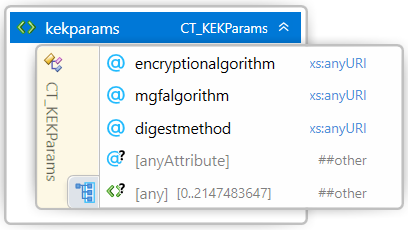
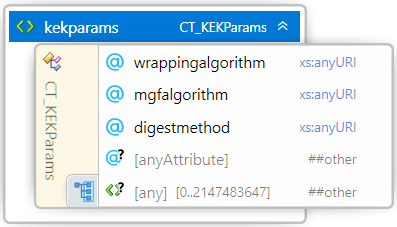
Update after discussion VA, Autodesk and HP- V0.90

diff --git a/3MF Secure Content.md b/3MF Secure Content.md
@@ -4,7 +4,7 @@
 ## Specification & Reference Guide
 
 
-| **Version** | 0.89 |
+| **Version** | 0.90 |
 | --- | --- |
 | **Status** | Draft |
 
@@ -22,7 +22,7 @@
     + [1.3 Package Organization and OPC Compliance](#13-package-organization-and-opc-compliance)
   * [Chapter 2. Key Store](#chapter-2-key-store)
       - [2.1 Consumer](#21-consumer)
-      - [2.2 Resource Data](#22-resource-data)
+      - [2.2 Resource Data Group](#22-resource-data-group)
   * [Chapter 3. OPC Relation and Content Types](#chapter-3-opc-relation-and-content-types)
     + [3.1 Content Types](#31-content-types)
     + [3.2 Relation Files](#32-relation-files)
@@ -72,6 +72,8 @@ This extension describes the encryption mechanism to protect the 3MF content fil
 
 In order to allow for the use of 3MF in highly secure printing environments, several additions are needed to efficiently support confidentiality of specific content in the 3MF package, providing a 3MF producer with the capability to control which consumers have access to the confidential content.
 
+While the 3MF Secure Content Extension provides a mechanism for controlling which consumers may have decrypt rights to specific confidential content, it also might be used in conjuction with external Digital Rights Management solution which might provide the decrypt rights to the confidential content.
+
 A consumer not supporting the 3MF Secure Content Extension MAY be able to consume the 3MF with this extension, but it may miss any encrypted OPC part.
 
 In order to avoid data loss while parsing, a 3MF package which uses referenced objects SHOULD enlist the Secure Content Extension as “required extension”, as defined in the core specification. However, if the Secure Content Extension is not enlisted as required, any consumer which does not support the Secure Content Extension will be able to access the unencrypted OPC parts.
@@ -84,15 +86,19 @@ A producer MAY add a MustPreserve relashionship to the Key Store OPC part or any
 
 The encryption model used is a 'two-level' Key Encryption Key - Content Encryption Key (KEK-CEK) wrapping scheme:
 
-- Each confidential resource is encrypted using an efficient symmetric Content Encryption Method, with a randomly generated symmetric Content Encryption Key (CEK). There may be several resources in a 3MF package that requires confidentiality, so different CEKs MUST be provided for each one of them. Consumers MUST support, at a minimum the AES256 GCM (Gaulois Counter Mode).
+- Each confidential resource is encrypted using an efficient symmetric Content Encryption Method, with a randomly generated symmetric Content Encryption Key (CEK). There may be several resources in a 3MF package that requires confidentiality, so different CEKs MUST be provided for each one of them. Consumers MUST support, at a minimum, the AES256 GCM (Gaulois Counter Mode).
 
-- The CEK for each one of the confidential resources may be wrapped with one or several Key Encryption Keys (KEK), using Key Encryption Methods that ensure that only the intended consumers can decrypt and use the CEK. This means that the consumers must have an RSA2048 asymmetric private decryption key, and the corresponding public key must be made available to the producer to encrypt the CEK. Cunsumer MUST support, at a minimum, the asymmetric RSA2048 OAEP Key Encryption Method.
+- The CEK for each one of the confidential resources may be wrapped with one or several Key Encryption Keys (KEK), using wrapping methods that ensure that only the intended consumers can decrypt and use the CEK. This means that the consumers must have available the decryption key.
+
+- When the wrapping method is an RSA2048 asymmetric private decryption key, and the corresponding public key must be made available to the producer to encrypt the CEK. Consumer MUST support, at a minimum, the asymmetric RSA2048 OAEP Key Encryption Method, based on public and private keys scheme.
 
 -	There could be several consumers for the same 3MF file and at the same time some consumers might have more than a pair of public and private keys, e.g. for different job types. To provide simultaneous access to all authorized parties, the CEK for a confidential resource may be encrypted several times, one for each different potential consumer.
 
+- Alternative wrapping schemes might also be supported by a consumer, for example using a symmetric KEK which might be delived to the consumer(s) by any extenal mechanism to the 3MF file.
+
 The KEK-CEK wrapping scheme provides efficiency because the (probably large) data in a confidential resource is encrypted/decrypted only once using an efficient symmetric encryption algorithm and KEK approach provides flexibility in controlling who can access the confidential data, by allowing encrypting the CEK with different KEKs.
 
-The mechanism for storing the CEK in the 3MF is optional. It provides a mean to communicate the CEK for eack part. However, the CEKs might be transferred to the consumer by any other mean, externally to the 3MF file.
+The mechanism for storing the CEK in the 3MF is optional. It provides a mean to communicate the CEK for eack part. However, the CEKs might be transferred to the consumer by any other means, externally to the 3MF file.
 
 ## 1.2 Parts Relationships
 
@@ -113,13 +119,13 @@ Only non-root OPC parts MAY be encrypted. Root OPC parts and parts relationships
 
 A new 3MF resource, the Key Store, is defined to support content encryption. The \<keystore> element stores the encryption information for the different confidential resources in the package.
 
-For each confidential resource, the Key Store contains:
+For each confidential resource, the Key Store may contain:
 
-- Information on how the content is encrypted: the Content Encryption Method, and other information relevant to enable content decryption.
+- Information on how the content is encrypted: the wrapping method, and other information relevant to enable content decryption.
 
-- One CEK encrypted using a KEKs wrapping, with the corresponding information about the Key Encryption Method used, for each one of the consumers authorized to access confidential content.
+- One CEK wrapped using a KEK, with the corresponding information about the wrapping method used, for each one of the consumers authorized to decrypt confidential content.
 
-A consumer supporting the 3MF Secure Content Extension MUST support, at a minimum, the RSA2048 OAEP Key Encryption Algorithm.
+A consumer supporting the 3MF Secure Content Extension MUST support, at a minimum, the RSA2048 OAEP wrapping method. Other wrapping methods, for example using symmetric keys, might also be supported by a consumer.
 
 ##### Figure 1–1. A typical 3MF Secure Content Document with multiple encrypted model streams
 ![OPC organization](images/1.1.opc_organization.png)
@@ -153,19 +159,21 @@ Element **\<consumer>**
 
 | Name   | Type   | Use   | Default   | Annotation |
 | --- | --- | --- | --- | --- |
-| consumerid | **string** | required |   | ID of the target consumer. |
+| consumerid | **string** | |   | ID of the target consumer. |
 | keyid | **string** | |   | Optional key identifier. |
 | @anyAttribute | | | | |
 
 The \<consumer> element under a \<keystore> element contains the target consumer specific information. When a \<keystore> element constains more than one consumer it means that there is more than a single recipient that could decrypt the content.
 
-**consumerid** - The consumer ID attribute to be referenced from the \<decryptright> elements from a \<resourcedata> element to specify to which \<consumer> is intended the encrypted content.
+**consumerid** - On asymetric wrapping schemes, the consumer ID attribute to be referenced from the \<decryptright> elements from a \<resourcedata> element to specify to which \<consumer> is intended the encrypted content.
 
 A consumer MUST be identified by "consumerid", an attribute in \<consumer> element, where consumerid is a human readable unique identifier (Alphanumeric). Each consumer is expected to have a unique id, which is known to both producer and consumer.
 
+On symmetric wrapping schemes, the target consumer might not be defined in the 3MF document, but in an extenal mechanism to the 3MF Secure Content Extension.
+
 **keyid** - The optional alphanumeric key identifier attribute for identifying the consumer's Key Encryption Key (KEK), which it is used for wrapping the content encryption keys targeted to this consumer.
 
-It is possible that a consumer has different encryption key pairs. In this case, additional information about the specific key pair used as Key Encryption Key is needed. This information MAY be provided by specifying the key identification.
+It is possible that a consumer has different encryption keys. In this case, additional information about the specific key pair used as Key Encryption Key is needed. This information MAY be provided by specifying the key identification.
 
 See the following example:
 
@@ -178,7 +186,7 @@ See the following example:
 
 Element **\<keyvalue>**
 
-Additional information about the public key used as Key Encryption Key MAY be provided using a \<keyvalue> element containing the public key in PEM format as in [RFC7468](https://tools.ietf.org/html/rfc7468#section-13).
+In asymmetric wrapping schemes, additional information about the public key used as Key Encryption Key MAY be provided using a \<keyvalue> element containing the public key in PEM format as in [RFC7468](https://tools.ietf.org/html/rfc7468#section-13).
 
 See the following example:
 
@@ -193,64 +201,79 @@ Nkn3Eos8EiZByi9DVsyfy9eejh+8AXgp
 </consumer>
 ```
 
-## 2.2 Resource Data
+## 2.2 Resource Data Group
+
+Element **\<resourcedatagroup>**
+
+![Resource Data XML structure](images/2.2.resourcedatagroup.png)
+
+| Name   | Type   | Use   | Default   | Annotation |
+| --- | --- | --- | --- | --- |
+| keyuuid | **ST\_UUID** | required |  | UUID that identifies the CEK. |
+| @anyAttribute | | | | |
+
+The \<resourcedatagroup> element under a \<keystore> element contains the resource specific encryption information for a set of encrypted resources which are encrypted using the same Content Encryption Key (CEK).
+
+**keyuuid** - UUID that identifies the Content Encryption Key (CEK). This UUID MAY be used to identify the key in external systems, for example in a Digital Rights Management (DRM) system.
+
+Example of a \<resourcedata> element for a set of encrypted resources that can be accessed by two different consumers:
+
+```xml
+<resourcedatagroup keyuuid="cb9b46cd-c5be-4f58-b2e3-69edb44ff5fe">
+  <decryptright consumerindex="0" wrappingalgorithm="http://www.w3.org/2001/04/xmlenc#rsa-oaep-mgf1p">
+    <cipherdata>
+      <xenc:CipherValue><!-- base64(RSA2048_OAEP encrypted Content Encryption Key) --></xenc:CipherValue>
+    </cipherdata>
+  </decryptright>
+  <decryptright consumerindex="1" wrappingalgorithm="http://www.w3.org/2001/04/xmlenc#rsa-oaep-mgf1p">
+    <cipherdata>
+      <xenc:CipherValue><!-- base64(RSA2048_OAEP encrypted Content Encryption Key) --></xenc:CipherValue>
+    </cipherdata>
+  </decryptright>
+  <resourcedata path="path to encrypted file1 in package">
+    <cekparams encryptionalgorithm="http://www.w3.org/2009/xmlenc11#aes256-gcm" compression="deflate">
+      <iv><!-- base64(Initialization Vector) --></iv>
+      <tag><!-- base64(Authentication Tag) --></tag>
+      <aad><!-- base64(Additional Authenticated Data) --></aad>
+    </cekparams>
+  </resourcedata>
+  <resourcedata path="path to encrypted file2 in package">
+    <cekparams encryptionalgorithm="http://www.w3.org/2009/xmlenc11#aes256-gcm" compression="deflate">
+      <iv><!-- base64(Initialization Vector) --></iv>
+      <tag><!-- base64(Authentication Tag) --></tag>
+      <aad><!-- base64(Additional Authenticated Data) --></aad>
+    </cekparams>
+  </resourcedata>
+</resourcedatagroup>
+```
+
+## 2.2.1 Resource Data
 
 Element **\<resourcedata>**
 
-![Resource Data XML structure](images/2.2.resourcedata.png)
+![Resource Data XML structure](images/2.2.1.resourcedata.png)
 
 | Name   | Type   | Use   | Default   | Annotation |
 | --- | --- | --- | --- | --- |
 | path | **ST\_Path** | required |  | Path to the encrypted resource file. |
-| compression | **ST\_Compression** |  | none | Compression algorithm applied to content before encryption. |
-| keyuuid | **ST\_UUID** | required |  | UUID that identifies the CEK. |
 | @anyAttribute | | | | |
 
-The \<resourcedata> element under a \<keystore> element contains the resource specific encryption information for an encrypted resource and the file path to the encrypted content file.
+The \<resourcedata> element under a \<resourcedatagroup> element contains the resource specific encryption information for an encrypted resource and the file path to the encrypted content file.
 
 **path** - Path to the encrypted file in the OPC package. The path MUST be treated as a hash map to identify encrypted files referenced from any XML model file by their path attribute defined in 3MF extensions. A given file path must be unique; it MUST NOT show up in more than one \<resourcedata> element. All encrypted files referenced by a resource data element MUST have a EncryptedFile relationship. See [3.3 Encrypted File Relationship](#33-encrypted-file-relationship).
 
-When a model resource path is found in a \<resourcedata> element, the content of that file MUST be encrypted.
+When an OPC part path is found in a \<resourcedata> element, the content of that file MUST be encrypted.
 
-**compression** - Compression algorithm applied before encrypting the content to obtain a significant compression ratio.
-
-A producer MAY specify a compression “deflate” so the content is first compressed and then encrypted. When compression is "deflate", a consumer MUST first decrypt and then decompress the content.
-
-**keyuuid** - UUID that identifies the Content Encryption Key (CEK). This UUID MAY be used to identify the key in external systems.
-
-Example of a \<resourcedata> element for an encrypted resource that can be accessed by two different consumers:
-
-```xml
-<resourcedata path="/3D/model_obj1.model" compression="deflate" keyuuid="cb9b46cd-c5be-4f58-b2e3-69edb44ff5fe">
-  <cekparams encryptionalgorithm="http://www.w3.org/2009/xmlenc11#aes256-gcm">
-    <iv><!-- base64(Initialization Vector) --></iv>
-    <tag><!-- base64(Authentication Tag) --></tag>
-    <aad><!-- base64(Additional Authenticated Data) --></aad>
-  </cekparams>
-  <decryptright consumerindex="0">
-    <kekparams encryptionalgorithm="http://www.w3.org/2001/04/xmlenc#rsa-oaep-mgf1p"/>
-     <cipherdata>
-      <xenc:CipherValue><!-- base64(RSA2048_OAEP encrypted Content Encryption Key) --></xenc:CipherValue>
-    </xenc:CipherData>
-  </decryptright>
-  <decryptright consumerindex="1">
-    <kekparams encryptionalgorithm="http://www.w3.org/2001/04/xmlenc#rsa-oaep-mgf1p"/>
-    <cipherdata>
-      <xenc:CipherValue><!-- base64(RSA2048_OAEP encrypted Content Encryption Key) --></xenc:CipherValue>
-    </xenc:CipherData>
-  </decryptright>
-</resourcedata>
-```
-
-### 2.2.1 CEK Params
+### 2.2.1.1 CEK Params
 
 Element **\<cekparams>**
 
-![CEK Params XML structure](images/2.2.1.cekparams.png)
+![CEK Params XML structure](images/2.2.1.1.cekparams.png)
 
 | Name   | Type   | Use   | Default   | Annotation |
 | --- | --- | --- | --- | --- |
-| encryptionalgorithm | **anyURI** | |   | Encryption algorithm used to encrypt the resource data. |
+| encryptionalgorithm | **anyURI** | required | | Encryption algorithm used to encrypt the resource data. |
+| compression | **ST\_Compression** |  | none | Compression algorithm applied to content before encryption. |
 | iv | **base64Binary** |  |  | Initialization Vector. |
 | tag | **base64Binary** |  |  | Authentication Tag. |
 | aad | **base64Binary** |  |  | Additional Authenticated Data. |
@@ -264,6 +287,10 @@ A consumer supporting the 3MF Secure Content Extension MUST support, at a minimu
 
 > AES-GCM [SP800-38D](https://csrc.nist.gov/publications/detail/sp/800-38d/final) is an authenticated encryption mechanism. It is equivalent to doing these two operations in one step - AES encryption followed by HMAC signing.
 
+**compression** - Compression algorithm applied before encrypting the content to obtain a significant compression ratio, specially on text files.
+
+A producer MAY specify a compression “deflate” so the content is first compressed and then encrypted. When compression is "deflate", a consumer MUST first decrypt and then decompress the content.
+
 **\<iv>** - The Inicialization Vector \<iv> element is essentially a nonce, i.e, a value that is unique within the specified context, which determines an invocation of the authenticated encryption function on the input data to be protected. 
 
 **\<tag>** - The Authentication Tag \<tag> element is a cryptographic checksum on data that is designed to reveal both accidental errors and the intentional modification of the data. 
@@ -274,17 +301,7 @@ A consumer supporting the 3MF Secure Content Extension MUST support, at a minimu
 
 > During decryption the implementation should compare the authentication tag computed during decryption with the specified Authentication Tag and fail if they don't match. For details on the implementation of AES-GCM, see the publication [SP800-38D](https://csrc.nist.gov/publications/detail/sp/800-38d/final).
 
->**Note:** For enhanced security, every time a file is encrypted a new Initialization Vector (IV) SHOULD be generated. See [SP800-38D](https://csrc.nist.gov/publications/detail/sp/800-38d/final) section 8: Uniqueness Requirement on IVs and Keys .
-
-Example of a \<cekparams> element for an encrypted resource that can be accessed by two different consumers:
-
-```xml
-<cekparams encryptionalgorithm="http://www.w3.org/2009/xmlenc11#aes256-gcm">
-  <iv><!-- base64(Initialization Vector) --></iv>
-  <tag><!-- base64(Authentication Tag) --></tag>
-  <aad><!-- base64(Additional Authenticated Data) --></aad>
-</cekparams>
-```
+>**Note:** For enhanced security, every time a file is encrypted a new Initialization Vector (IV) SHOULD be generated. See [SP800-38D](https://csrc.nist.gov/publications/detail/sp/800-38d/final) Section 8: Uniqueness Requirement on IVs and Keys.
 
 ### 2.2.2 Decrypt Right
 
@@ -294,12 +311,12 @@ Element **\<decryptright>**
 
 | Name   | Type   | Use   | Default   | Annotation |
 | --- | --- | --- | --- | --- |
-| consumerindex | **ST\_ResourceIndex** | required | | Zero-based index to the \<customer> element containing the keys to decrypt the resource file |
+| consumerindex | **ST\_ResourceIndex** | required | | Zero-based index to the \<customer> element containing the keys to unwrap the Content Encryption Keys |
 | @anyAttribute | | | | |
 
-The \<decryptright> element under a \<resourcedata> element contains the consumer specific information to decrypt the content file for a specific consumer. Each \<decryptright> element contains the Content Encryption Key (CEK) wrapped with the consumer's public Key Encryption Key (KEK). 
+The \<decryptright> element under a \<resourcedata> element contains the consumer specific information to unwrap the Content Encryption Keys for a specific consumer. Each \<decryptright> element contains the Content Encryption Key (CEK) wrapped with the Key Encryption Key (KEK). 
 
-**consumerindex** - Index to the \<consumer> element in the Key Store to select the Customer to which the decryption key is targeted.
+**consumerindex** - Index to the \<consumer> element in the Key Store to select the Customer to which the wrapping key is targeted.
 
 ### 2.2.2.1 KEK Params
 
@@ -309,14 +326,14 @@ Element **\<kekparams>**
 
 | Name   | Type   | Use   | Default   | Annotation |
 | --- | --- | --- | --- | --- |
-| encryptionalgorithm | **anyURI** | |   | Encryption algorithm. |
+| wrappingalgorithm | **anyURI** | required |   | Encryption algorithm. |
 | mgfalgorithm | **anyURI** | |   | Mask generation function. |
 | digestmethod | **anyURI** | |   | Message digest method. |
 | @anyAttribute | | | | |
 
-The \<kekparams> element under a \<decryptright> element specifies the encryption method used to wrap the CEK using the consumer's Key Encryption Key (KEK).
+The \<kekparams> element under a \<decryptright> element specifies the wrapping method used to wrap the CEK using a Key Encryption Key (KEK).
 
-**encryptionalgorithm** - Encryption algorithm used to wrap the Content Encryption Key (CEK).
+**wrappingalgorithm** - Wrapping algorithm used to wrap the Content Encryption Key (CEK).
 
 **mgfalgorithm** - Mask generation function used to wrap the Content Encryption Key (CEK).
 
@@ -358,7 +375,9 @@ An example of an RSA-OAEP element with MGF1 and SHA256 (recommended):
 
 > The CipherValue for an RSA-OAEP encrypted key is the base64 encoding of the octet string computed as per RFC 2437 [PKCS1, section 7.1.1: Encryption operation](). As described in the EME-OAEP-ENCODE function RFC 2437 [PKCS1, section 9.1.1.1], the value input to the key transport function is calculated using the message digest function and string specified in the "digestmethod" attribute and using the mask generator function specified in RFC 2437. The desired output length for EME-OAEP-ENCODE is one byte shorter than the RSA modulus.
 
-A consumer supporting the 3MF Secure Content Extension MUST support the RSA OAEP with MFG1 with either SHA1 or SHA256 digest methods, as defined in https://www.w3.org/TR/xmlenc-core1/#sec-Alg-MessageDigest. Other algorithms, mask generation or disgest methods MAY be supported by a consumer as far the producer and the consumer are able to negotiate them outside of the 3MF Secure Content specification.
+A consumer supporting the 3MF Secure Content Extension MUST support the RSA OAEP with MFG1 with either SHA1 or SHA256 digest methods, as defined in https://www.w3.org/TR/xmlenc-core1/#sec-Alg-MessageDigest.
+
+Other algorithms, mask generation or disgest methods MAY be supported by a consumer as far the producer and the consumer are able to negotiate them outside of the 3MF Secure Content specification.
 
 **Note:** For enhanced security, it is recommended to use the SHA256 digest method and the MFG1 with SHA256 mask generation function.
 
@@ -366,7 +385,7 @@ A consumer supporting the 3MF Secure Content Extension MUST support the RSA OAEP
 
 Element **\<cipherdata>**
 
-The \<cipherdata> element under the \<decryptright> element contains the public key to decrypt the content file, which is encrypted for a specific consumer, granting its decryption rights.
+The \<cipherdata> element under the \<decryptright> element contains the CEK to decrypt the content file, which is wrapped for a specific consumer using the KEK, granting its decryption rights.
 
 ##### Figure 2–2. xenc:CipherData schema diagram
 
@@ -460,7 +479,7 @@ See [the 3MF Core Specification glossary](https://github.com/3MFConsortium/spec_
   <xs:complexType name="CT_KeyStore">
     <xs:sequence>
       <xs:element ref="consumer" minOccurs="0" maxOccurs="2147483647"/>
-      <xs:element ref="resourcedata" minOccurs="0" maxOccurs="2147483647"/>
+      <xs:element ref="resourcedatagroup" minOccurs="0" maxOccurs="2147483647"/>
       <xs:any namespace="##other" processContents="lax" minOccurs="0" maxOccurs="2147483647"/>
     </xs:sequence>
     <xs:attribute name="UUID" type="ST_UUID" use="required"/>
@@ -471,8 +490,17 @@ See [the 3MF Core Specification glossary](https://github.com/3MFConsortium/spec_
       <xs:element name="keyvalue" type="xs:string"/>
       <xs:any namespace="##other" processContents="lax" minOccurs="0" maxOccurs="2147483647"/>
     </xs:sequence>
-    <xs:attribute name="consumerid" type="xs:string" use="required"/>
+    <xs:attribute name="consumerid" type="xs:string"/>
     <xs:attribute name="keyid" type="xs:string"/>
+    <xs:anyAttribute namespace="##other" processContents="lax"/>
+  </xs:complexType>
+  <xs:complexType name="CT_ResourceDataGroup">
+    <xs:sequence>
+      <xs:element ref="decryptright" minOccurs="0" maxOccurs="2147483647"/>
+      <xs:element ref="resourcedata" minOccurs="0" maxOccurs="2147483647"/>
+      <xs:any namespace="##other" processContents="lax" minOccurs="0" maxOccurs="2147483647"/>
+    </xs:sequence>
+    <xs:attribute name="keyuuid" type="ST_UUID" use="required"/>
     <xs:anyAttribute namespace="##other" processContents="lax"/>
   </xs:complexType>
   <xs:complexType name="CT_ResourceData">
@@ -482,8 +510,6 @@ See [the 3MF Core Specification glossary](https://github.com/3MFConsortium/spec_
       <xs:any namespace="##other" processContents="lax" minOccurs="0" maxOccurs="2147483647"/>
     </xs:sequence>
     <xs:attribute name="path" type="ST_Path" use="required"/>
-    <xs:attribute name="compression" type="ST_Compression" default="none"/>
-    <xs:attribute name="keyuuid" type="ST_UUID" use="required"/>
     <xs:anyAttribute namespace="##other" processContents="lax"/>
   </xs:complexType>
   <xs:complexType name="CT_DecryptRight">
@@ -503,13 +529,14 @@ See [the 3MF Core Specification glossary](https://github.com/3MFConsortium/spec_
       <xs:any namespace="##other" processContents="lax" minOccurs="0" maxOccurs="2147483647"/>
     </xs:sequence>
     <xs:attribute name='encryptionalgorithm' type='xs:anyURI' use="required"/>
+    <xs:attribute name="compression" type="ST_Compression" default="none"/>
     <xs:anyAttribute namespace="##other" processContents="lax"/>
   </xs:complexType>
   <xs:complexType name="CT_KEKParams">
     <xs:sequence>
       <xs:any namespace="##other" processContents="lax" minOccurs="0" maxOccurs="2147483647"/>
     </xs:sequence>
-    <xs:attribute name='encryptionalgorithm' type='xs:anyURI' use="required"/>
+    <xs:attribute name='wrappingalgorithm' type='xs:anyURI' use="required"/>
     <xs:attribute name='mgfalgorithm' type='xs:anyURI'/>
     <xs:attribute name='digestmethod' type='xs:anyURI'/>
     <xs:anyAttribute namespace="##other" processContents="lax"/>
@@ -536,6 +563,7 @@ See [the 3MF Core Specification glossary](https://github.com/3MFConsortium/spec_
   <!-- Elements -->
   <xs:element name="keystore" type="CT_KeyStore"/>
   <xs:element name="consumer" type="CT_Consumer"/>
+  <xs:element name="resourcedatagroup" type="CT_ResourceDataGroup"/>
   <xs:element name="resourcedata" type="CT_ResourceData"/>
   <xs:element name="decryptright" type="CT_DecryptRight"/>
   <xs:element name="cekparams" type="CT_CEKParams"/>
@@ -562,16 +590,20 @@ The 3MF Secure Extension defines a file format to specify how the encrypted file
 
 The file format is easily identifiable by software by the '%3McF' magic number.
 
-The following take defines the 3MF cipher file format.
+The following take defines the 3MF Cipher File format.
 
 | Octets | Value| Description |
 | --- | --- | --- |
-| 0-4 | '%3McF' |
+| 0 - 4 | '%3McF' | Magic number|
 | 5 | 0x00 | Version |
-| 6-7 | 0x0000 | Header length |
-| 8-eof | | Crypto content |
+| 6 - 7 | | Header length, since octet 0. Minimum value 16. |
+| 8 - 15 | | Uncompressed size (64 bit unsigned int) |
+| 16 - (Header length - 1) | | Reserved Header Data. |
+| (Header length) - EOF | | Crypto content |
 
-For the purposes of this specification only the version 0 with no header is supported. The header length is set to 0 for future extendability.
+For the purposes of this specification only the version 0 is supported.
+
+All the numeric values MUST be stored in Little Endian format.
 
 # References
 
